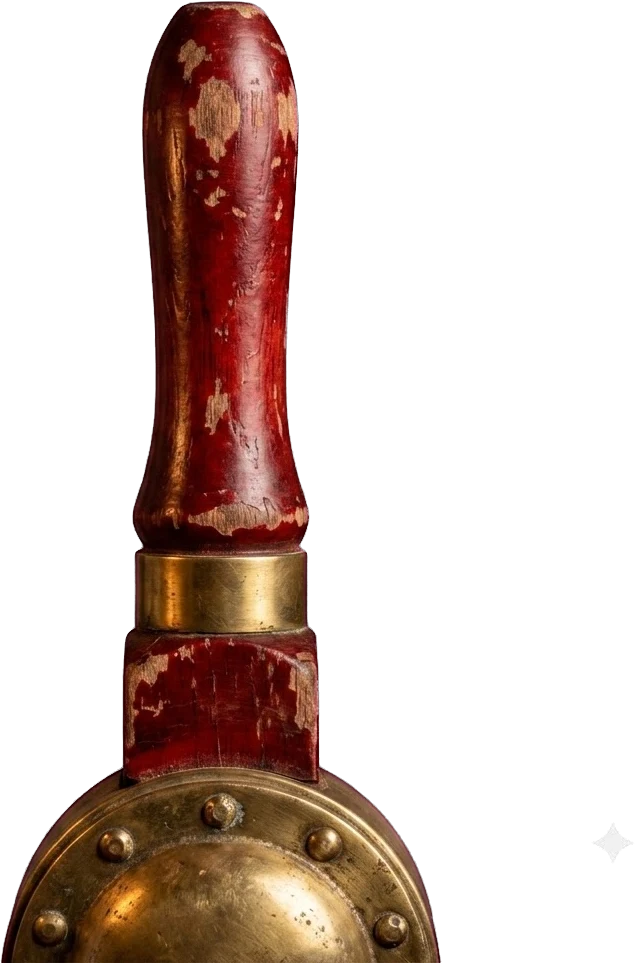
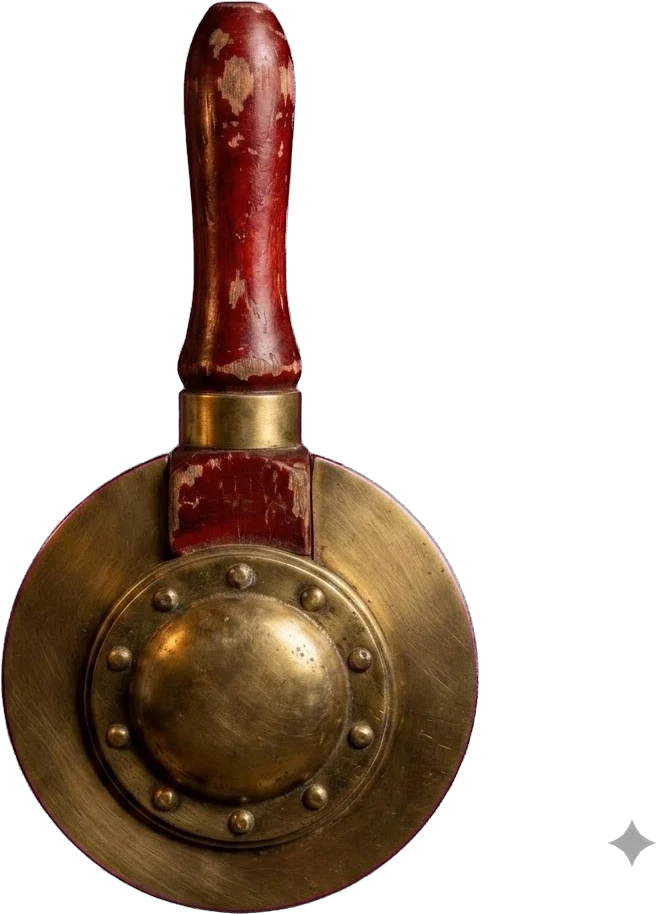
Roue du tirage : le pointeur pivote sur son propre moyeu
Le pointeur précédent était tronqué par le bord de son image : il pivotait
sur ce bord, et un clou de laiton postiche masquait la coupure au centre du
gouvernail.

Celui-ci porte son moyeu complet. Le pivot devient donc le centre de ce
moyeu, relevé à 74 % de la hauteur de l'image (le milieu de sa partie la
plus large) — d'où l'origine de rotation et la marge, calculées depuis
cette valeur et non depuis le bas.

Sa longueur suit la géométrie de la roue : 0,74 x 32,4 % place la pointe à
24 % du cadre, contre 26 % pour le rayon du trou du gouvernail. La barre
s'arrête avant le bois plutôt que de le chevaucher.

Le moyeu postiche est supprimé.

diff --git a/public/skullking.css b/public/skullking.css
@@ -2766,12 +2766,20 @@ h3 {
   position: absolute;
   left: 50%;
   top: 50%;
-  width: 15%;
-  height: 23%;
-  margin-left: -7.5%;
-  margin-top: -23%;
+  /* Le pointeur porte son propre moyeu de laiton, dont le centre tombe à
+     74 % de la hauteur de l'image (mesuré : c'est le milieu de sa partie
+     la plus large). C'est LUI le pivot, pas le bas de l'image — d'où
+     l'origine et la marge ci-dessous, calculées depuis ces 74 %.
+
+     Longueur : 0,74 x 32,4 % = 24 % du cadre entre le pivot et la pointe,
+     soit un cheveu de moins que le rayon du trou (26 %), pour que la
+     barre ne vienne pas taper dans le bois du gouvernail. */
+  width: 23.3%;
+  height: 32.4%;
+  margin-left: -11.65%;
+  margin-top: -24%;
   object-fit: contain;
-  transform-origin: 50% 100%;
+  transform-origin: 50% 74%;
   transform: rotate(0deg);
   transition: transform 2.2s cubic-bezier(0.12, 0.67, 0.16, 1);
   filter: drop-shadow(0 3px 3px rgba(0, 0, 0, 0.6));
@@ -2784,20 +2792,7 @@ h3 {
   display: block;
 }
 
-/* Le clou de laiton au moyeu : il n'est pas décoratif, il cache la base du
-   pointeur, tronquée net par le bord de son image. Sans lui on verrait une
-   coupure droite au centre du gouvernail. */
-.sk-wheel-hub {
-  position: absolute;
-  top: 50%;
-  left: 50%;
-  transform: translate(-50%, -50%);
-  width: 11%;
-  height: 11%;
-  background: url('assets/skin/clou-laiton.webp') 50% 50% / contain no-repeat;
-  filter: drop-shadow(0 2px 4px rgba(0, 0, 0, 0.8));
-  z-index: 4;
-}
+
 
 .sk-wheel-labels {
   position: absolute;

diff --git a/public/skullking.html b/public/skullking.html
@@ -109,7 +109,7 @@
           <div class="sk-wheel-frame">
             <div id="sk-wheel" class="sk-wheel"></div>
             <img id="sk-wheel-needle" class="sk-wheel-needle" src="assets/skin/aiguille-roue.webp" alt="" aria-hidden="true" />
-            <div class="sk-wheel-hub"></div>
+            
             <div id="sk-wheel-labels" class="sk-wheel-labels"></div>
           </div>
           <p id="sk-start-reveal-text" class="sk-start-reveal-text"></p>
